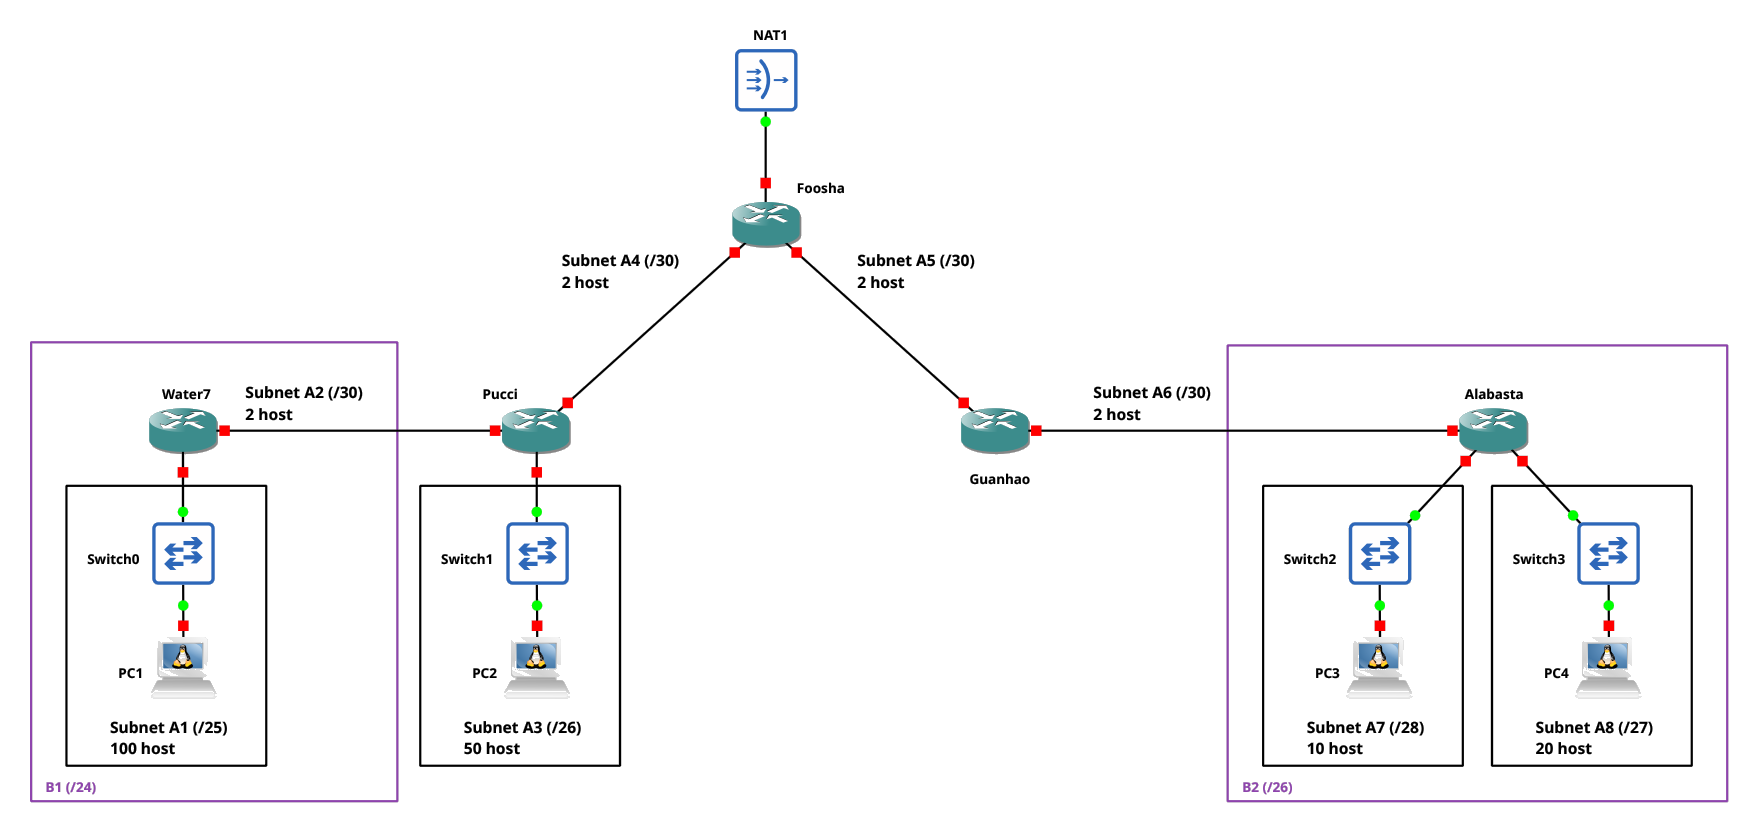
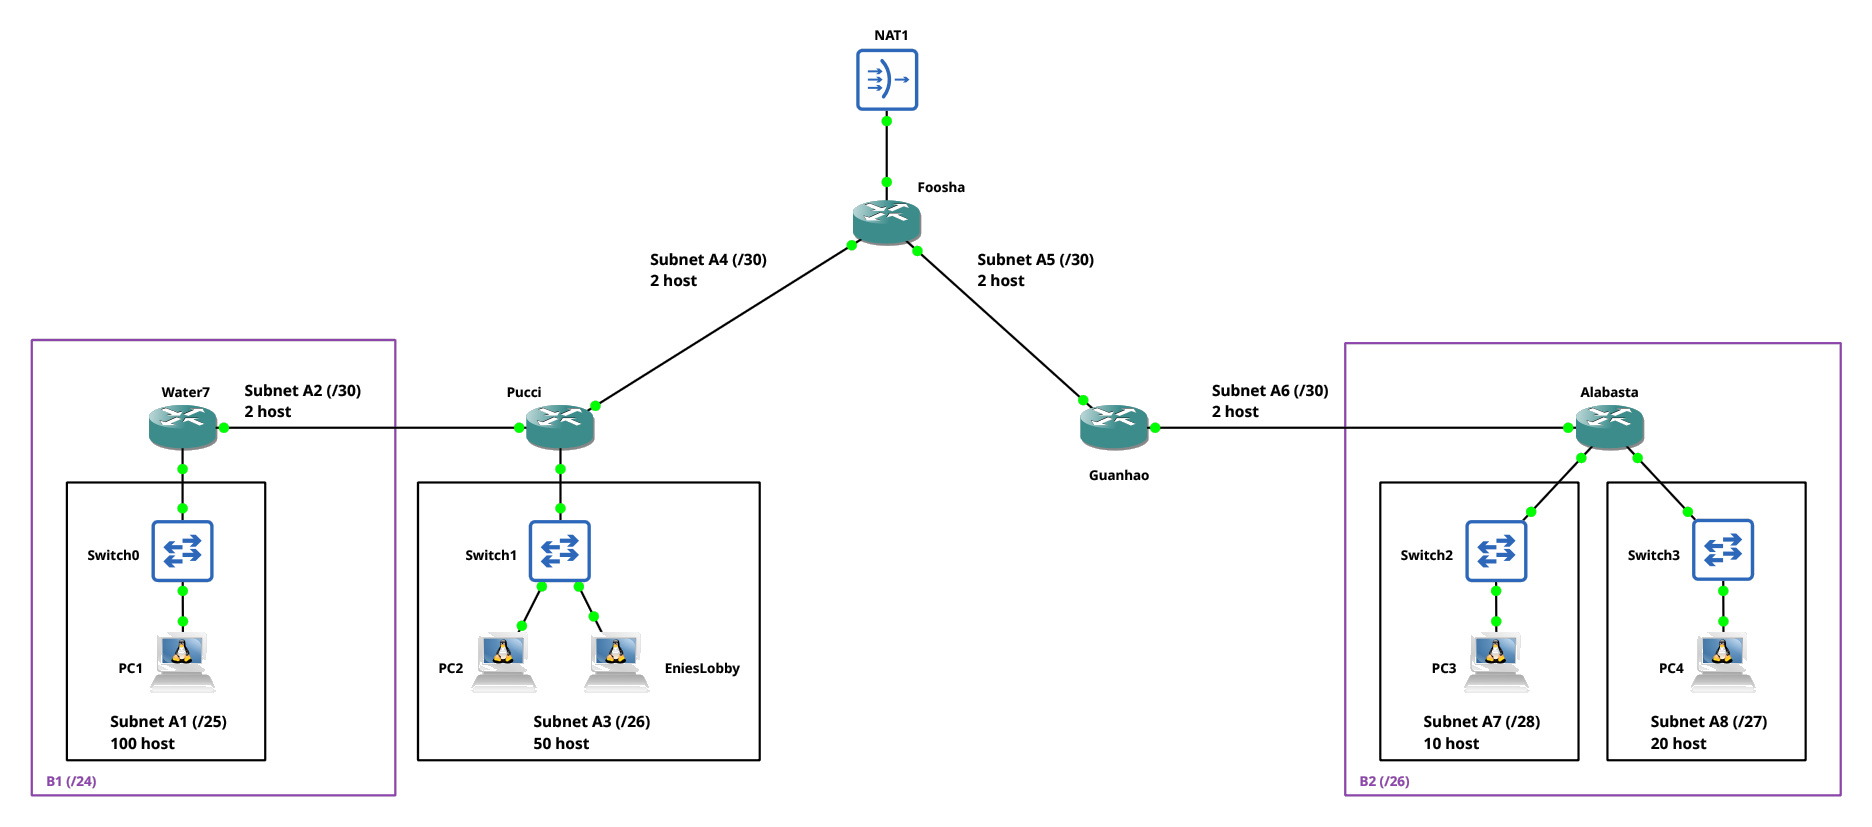
feat(modul-4): tambahkan EniesLobby pada topologi contoh bab 1 dan 2
Gambar topologi subnetting, classful, supernetting, multi-hop, dan routing loop kini memuat EniesLobby di LAN PC2 (A3). Jumlah 50 host pada LAN tersebut sudah termasuk EniesLobby, sehingga perhitungan subnet tidak berubah.

diff --git a/Modul-4/README.md b/Modul-4/README.md
@@ -689,7 +689,7 @@ Contoh penerapan pembagian IP Address dengan metode Classful sebagai berikut.
 
 ![Topologi contoh subnetting](images/topologi-subnetting.png)
 
-Anggap kita memiliki topologi jaringan seperti gambar di atas, dengan jumlah host yang dibutuhkan tertera di bawah setiap PC. Lalu, tentukan jumlah subnet yang ada di dalam topologi tersebut.
+Anggap kita memiliki topologi jaringan seperti gambar di atas, dengan jumlah host yang dibutuhkan setiap LAN tertera di bawahnya. Jumlah 50 host pada LAN PC2 sudah termasuk EniesLobby, yaitu DHCP Server yang akan dikonfigurasi pada [Implementasi bab 2](#enieslobby). Lalu, tentukan jumlah subnet yang ada di dalam topologi tersebut.
 
 ![Subnet pada topologi contoh](images/topologi-classful.png)
 
